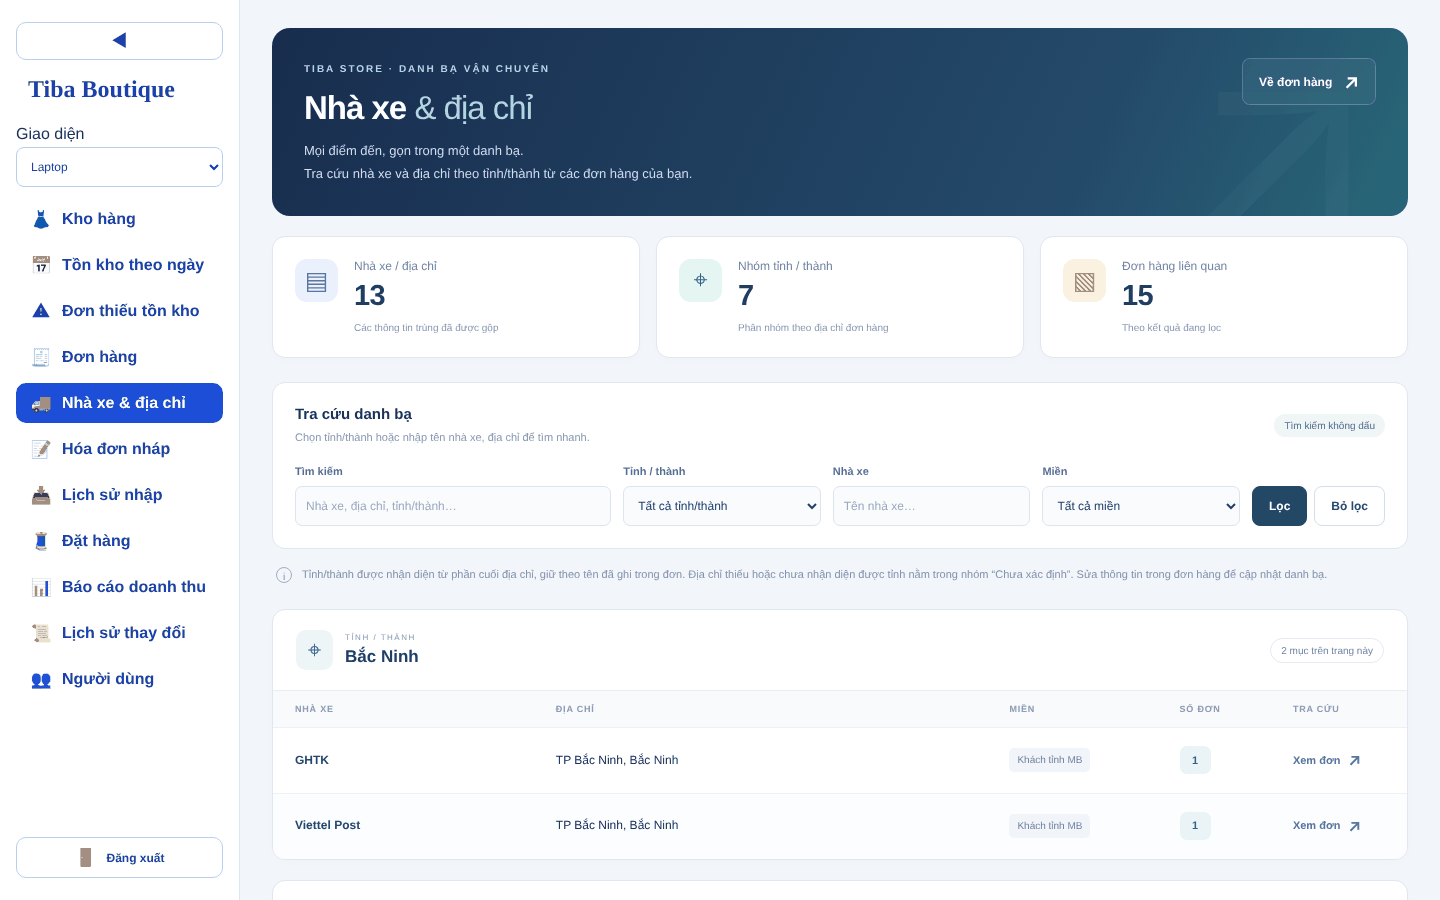
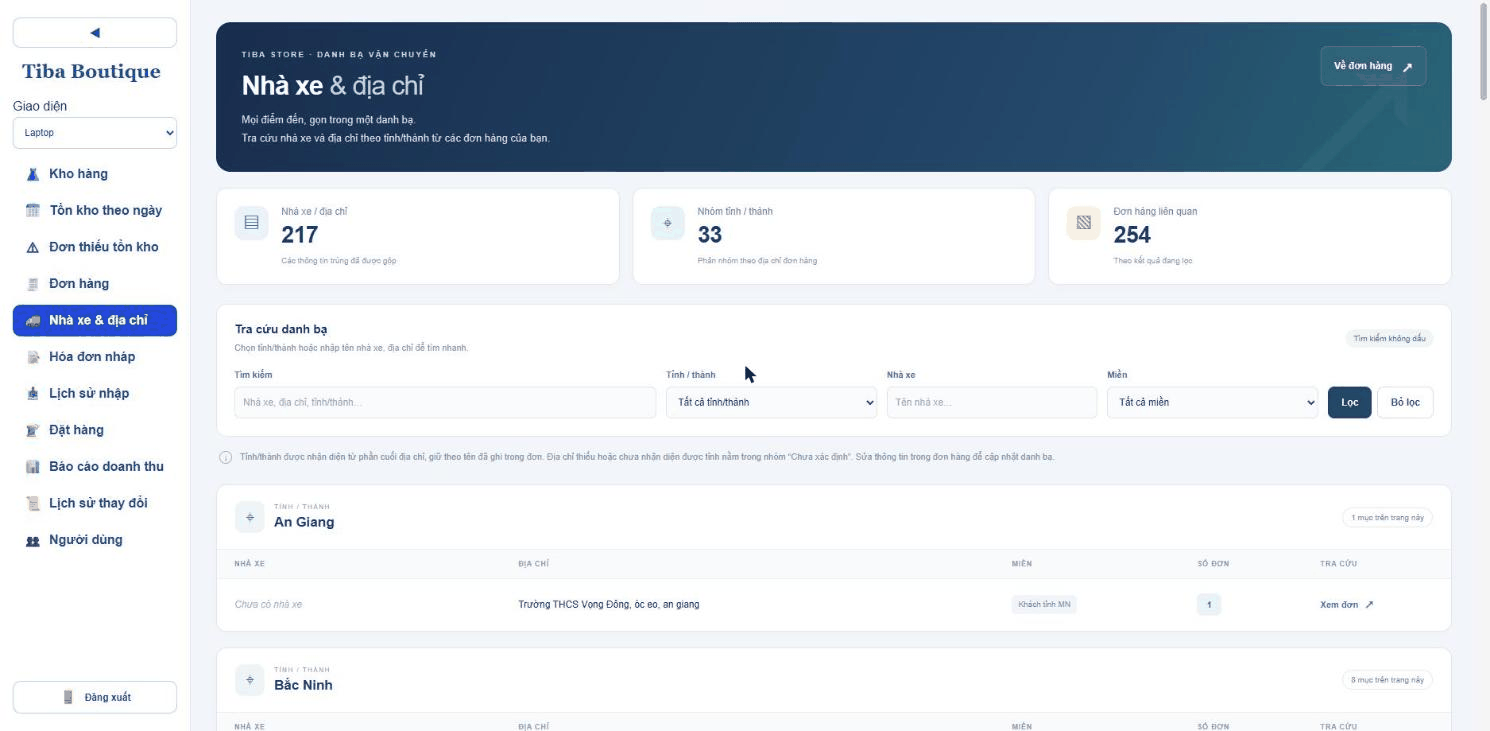
Thay anh README bang anh chup tu ban production
Chup lai 14 man hinh tu https://tibastore.com o che do giao dien Laptop
(rieng mobile.png o che do Dien thoai). Da che so dien thoai khach hang
va ten mien truoc khi chup. Cap nhat ghi chu anh trong README.

diff --git a/README.md b/README.md
@@ -6,7 +6,7 @@ Hệ thống theo dõi tồn kho theo từng **mã + size**, lên đơn thuê th
 
 ![Đăng nhập](screenshoots/login.png)
 
-> Ảnh chụp màn hình trong tài liệu dùng **dữ liệu mẫu**, không phải dữ liệu thật của cửa hàng.
+> Ảnh chụp màn hình trong tài liệu được chụp từ **bản production đang chạy**. Tên miền và **số điện thoại khách hàng** đã được che.
 
 ---
 
